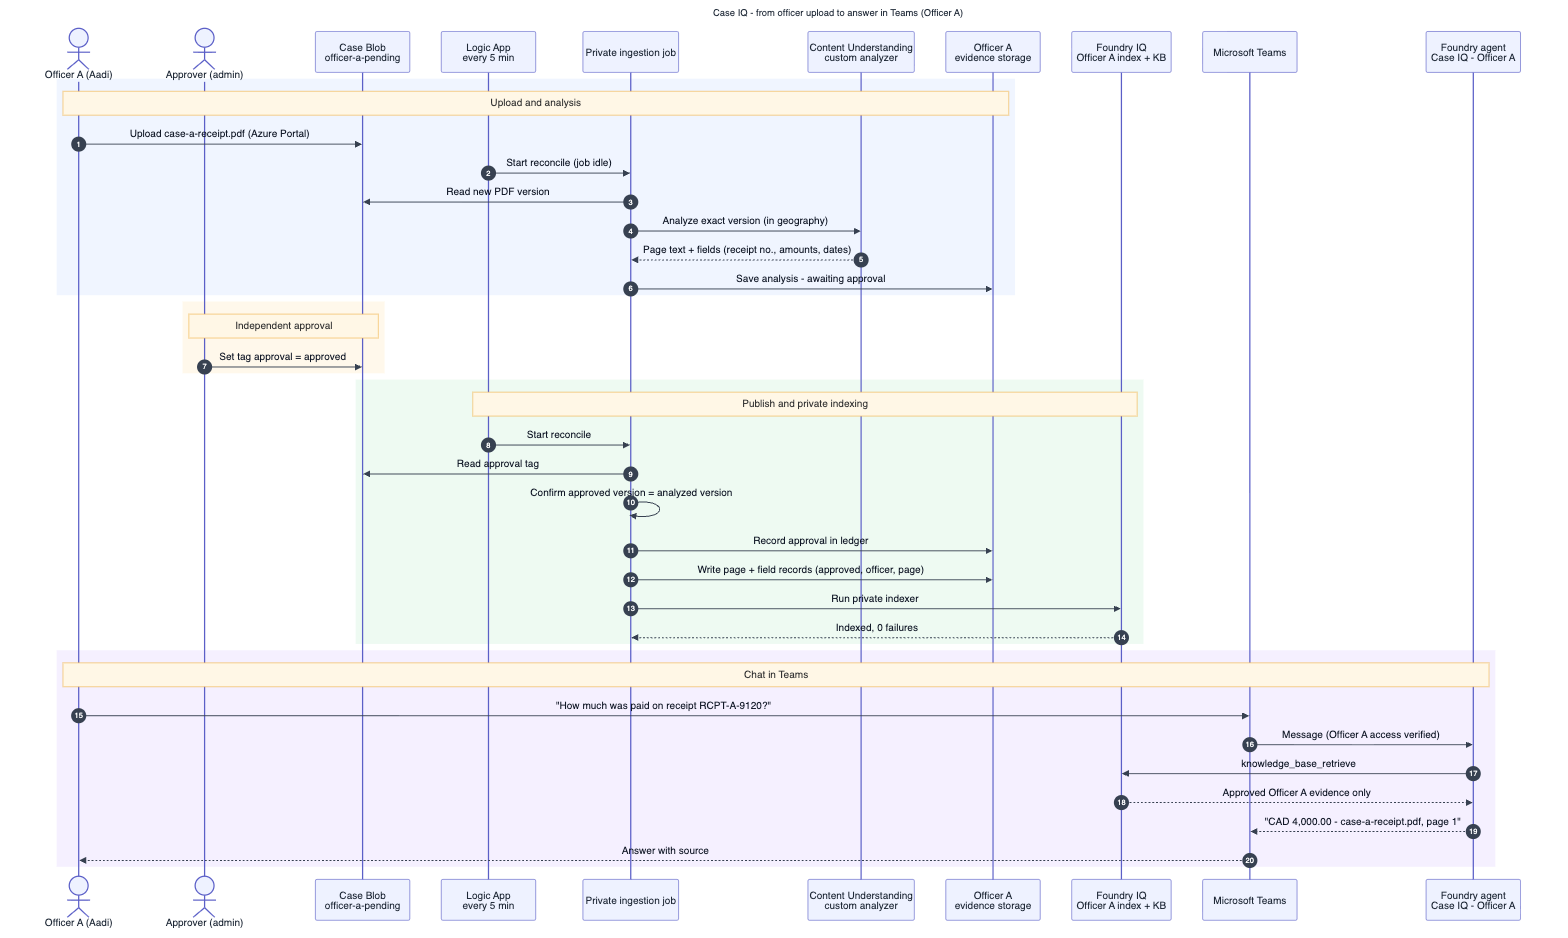
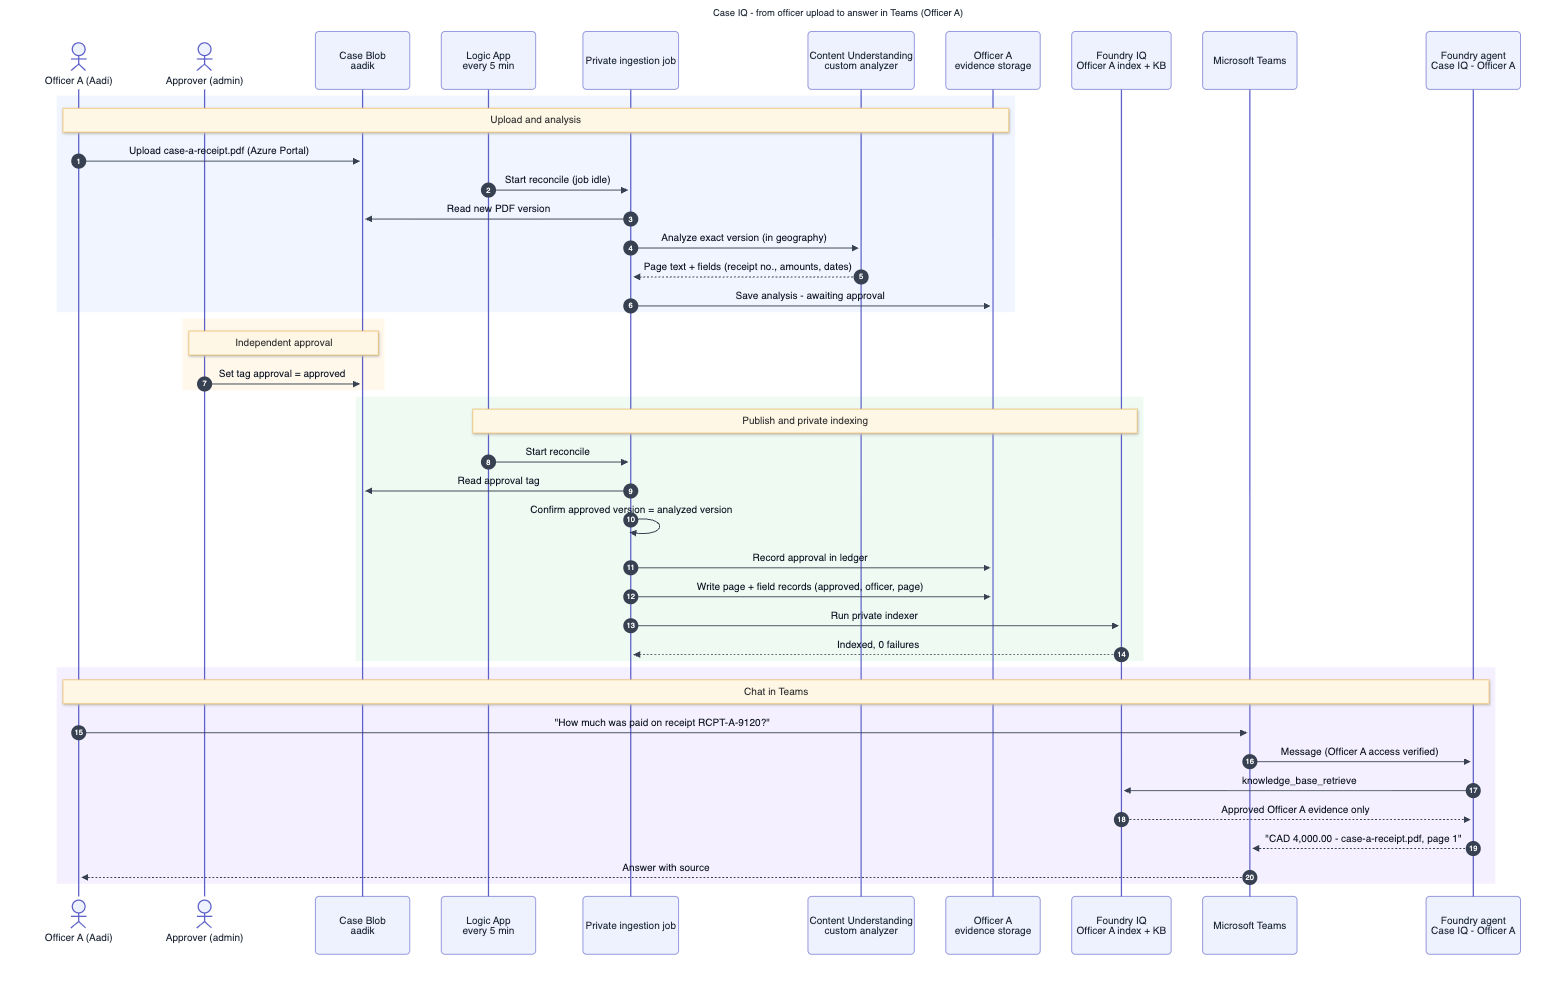
Name officer upload containers after the officers
Containers are now aadik and andrel (from config/officers.json). Per-officer domains read the registry, ingestion accepts any valid container name, and the shared-agent link test uses the registry containers.

diff --git a/docs/getting-started.md b/docs/getting-started.md
@@ -12,7 +12,7 @@ All data-plane configuration runs inside the VNet in an Azure Container Instance
 
 ## 1. Set the officers
 
-Edit `config/officers.json`. Each officer has a `key`, `displayName`, `objectId` and a `container` named `officer-<key>-pending`. Entries with `"optionA": true` also get a per-officer domain.
+Edit `config/officers.json`. Each officer has a `key`, `displayName`, `objectId` and a `container` named after the officer, for example `aadik`. Entries with `"optionA": true` also get a per-officer domain.
 
 ## 2. Deploy the infrastructure
 
@@ -111,7 +111,7 @@ az container show -g $RG -n regiq-ingest-<suffix>-job --query containers[0].inst
 
 | Task | How |
 |---|---|
-| Upload | Azure Portal → storage account → **Containers** → own `officer-<key>-pending` → **Upload** |
+| Upload | Azure Portal → storage account → **Containers** → own container (for example `aadik`) → **Upload** |
 | Approve | Open the PDF → **Blob index tags** → add `approval` = `approved` |
 | Withdraw | Remove or change the tag, delete the PDF, or upload a new version |
 | Process now | Open the scheduler Logic App → **Run trigger** |

diff --git a/README.md b/README.md
@@ -40,7 +40,7 @@ Per-officer agents:
 
 ### Upload and approval
 
-1. The officer uploads a PDF in the Azure Portal to their own container `officer-<key>-pending`.
+1. The officer uploads a PDF in the Azure Portal to their own container, named after them (for example `aadik`).
 2. Every 5 minutes, a Logic App starts the ingestion job. It sends the current Blob version to the Content Understanding custom analyzer and stores the result. Analysis alone makes nothing searchable.
 3. The approver sets the Blob index tag `approval=approved`. Officers can't read or write tags.
 4. On the next run, the job writes per-page and extracted-field records with the source version, SHA-256, analyzer version and approval ID:
